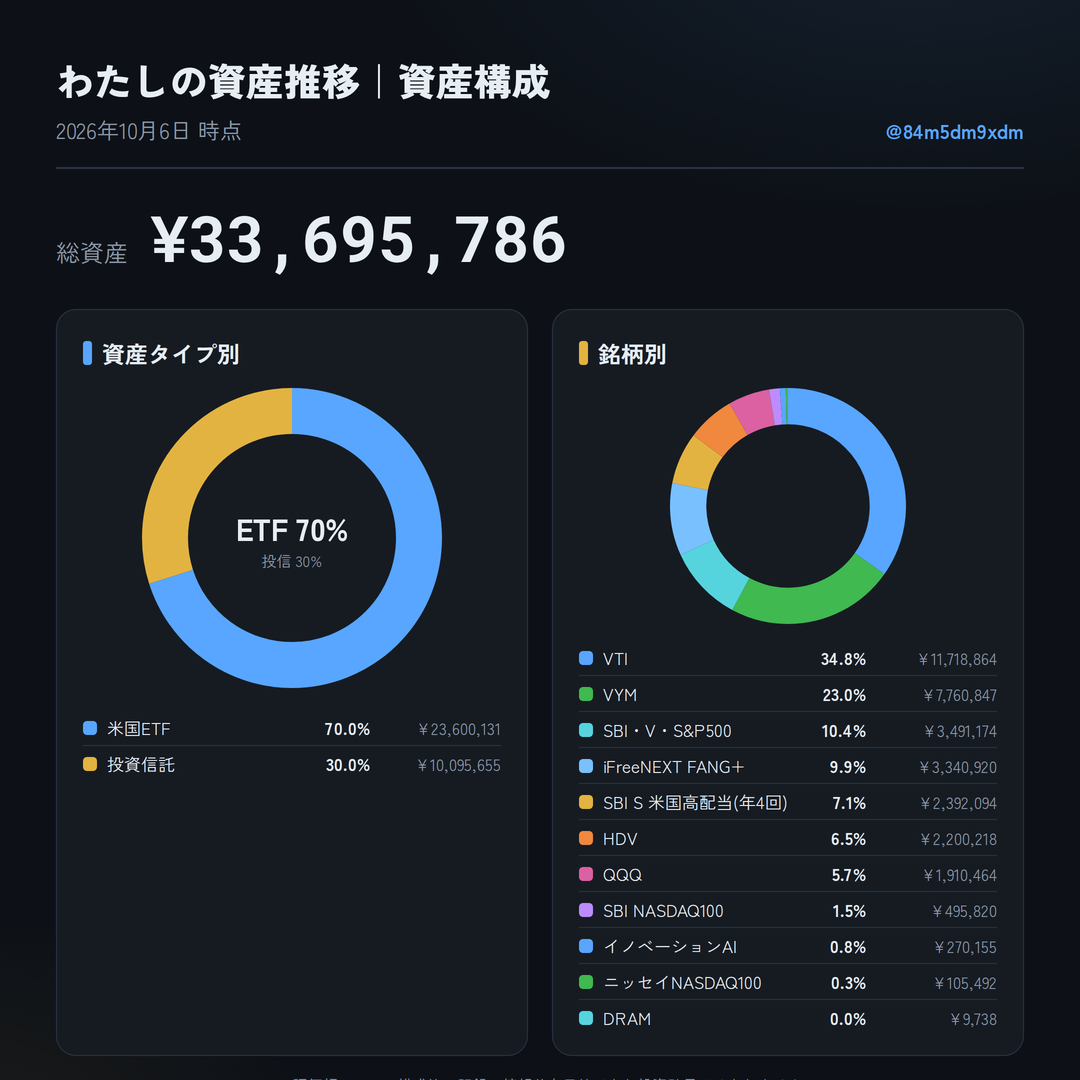
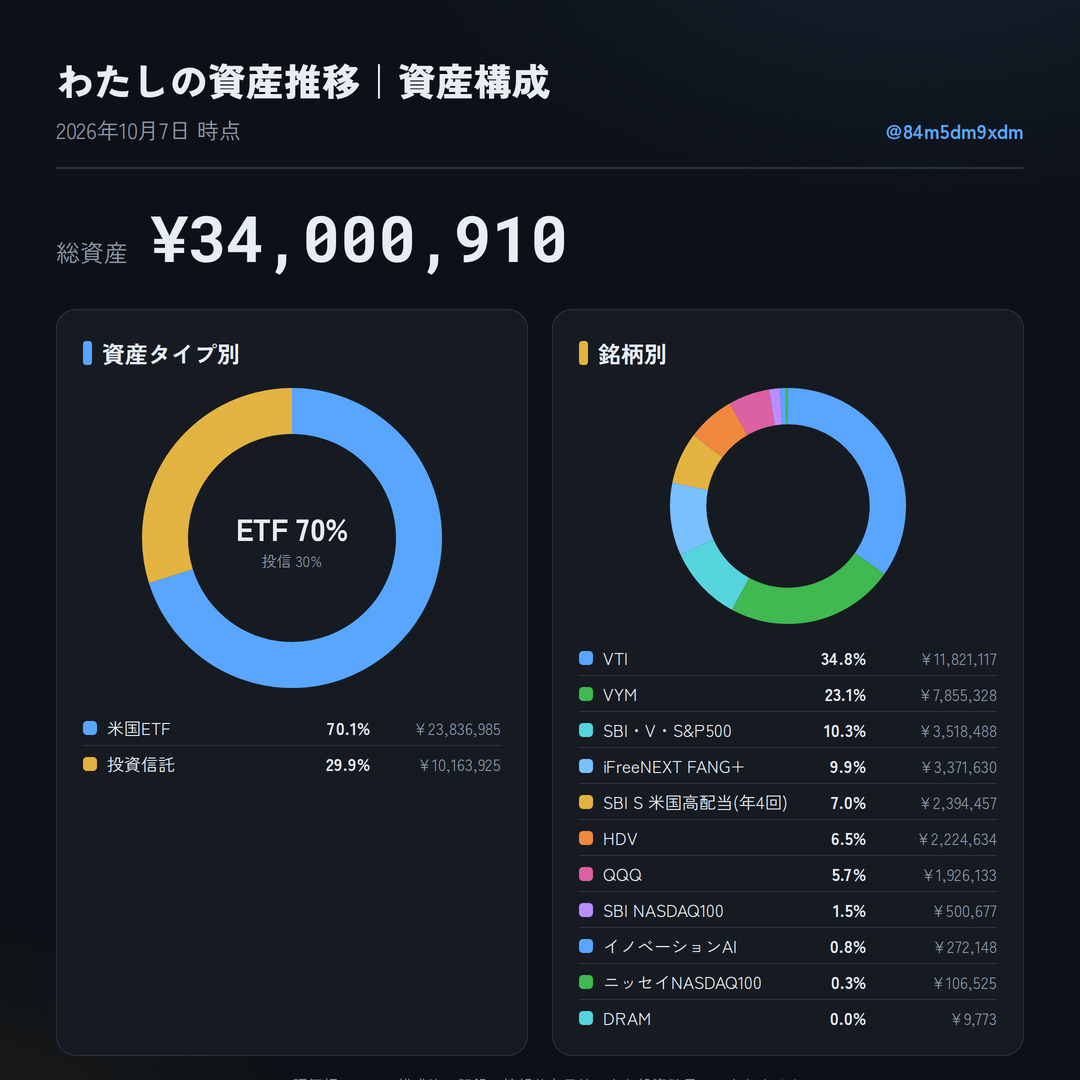
update: 2026-10-07

diff --git a/slide/allocation.html b/slide/allocation.html
@@ -54,21 +54,21 @@ footer { margin-top:18px; text-align:center; font-size:15px; color:var(--dim); }
   <header>
     <div>
       <div class="title">わたしの資産推移｜資産構成</div>
-      <div class="date">2026年10月6日 時点</div>
+      <div class="date">2026年10月7日 時点</div>
     </div>
     <div class="acct">@84m5dm9xdm</div>
   </header>
 
   <div class="total-wrap">
     <span class="total-label">総資産</span>
-    <span class="total mono">¥33,695,786</span>
+    <span class="total mono">¥34,000,910</span>
   </div>
 
   <div class="cols">
     <div class="panel cat">
       <div class="panel-h">資産タイプ別</div>
       <div class="donut-wrap">
-        <svg viewBox="0 0 300 300" xmlns="http://www.w3.org/2000/svg"><circle cx="150.0" cy="150.0" r="127.0" fill="none" stroke="#58a6ff" stroke-width="46" stroke-dasharray="558.885 239.080" stroke-dashoffset="-0.000" transform="rotate(-90 150.0 150.0)"/><circle cx="150.0" cy="150.0" r="127.0" fill="none" stroke="#e3b341" stroke-width="46" stroke-dasharray="239.080 558.885" stroke-dashoffset="-558.885" transform="rotate(-90 150.0 150.0)"/></svg>
+        <svg viewBox="0 0 300 300" xmlns="http://www.w3.org/2000/svg"><circle cx="150.0" cy="150.0" r="127.0" fill="none" stroke="#58a6ff" stroke-width="46" stroke-dasharray="559.428 238.536" stroke-dashoffset="-0.000" transform="rotate(-90 150.0 150.0)"/><circle cx="150.0" cy="150.0" r="127.0" fill="none" stroke="#e3b341" stroke-width="46" stroke-dasharray="238.536 559.428" stroke-dashoffset="-559.428" transform="rotate(-90 150.0 150.0)"/></svg>
         <div class="donut-center">
           <div class="dc-big">ETF 70%</div>
           <div class="dc-sub">投信 30%</div>
@@ -78,88 +78,88 @@ footer { margin-top:18px; text-align:center; font-size:15px; color:var(--dim); }
         <div class="lg">
           <span class="dot" style="background:#58a6ff"></span>
           <span class="lg-name">米国ETF</span>
-          <span class="lg-pct">70.0%</span>
-          <span class="lg-jpy">¥23,600,131</span>
+          <span class="lg-pct">70.1%</span>
+          <span class="lg-jpy">¥23,836,985</span>
         </div>
         <div class="lg">
           <span class="dot" style="background:#e3b341"></span>
           <span class="lg-name">投資信託</span>
-          <span class="lg-pct">30.0%</span>
-          <span class="lg-jpy">¥10,095,655</span>
+          <span class="lg-pct">29.9%</span>
+          <span class="lg-jpy">¥10,163,925</span>
         </div>
     </div>
 
     <div class="panel sym">
       <div class="panel-h">銘柄別</div>
       <div class="donut-wrap small">
-        <svg viewBox="0 0 260 260" xmlns="http://www.w3.org/2000/svg"><circle cx="130.0" cy="130.0" r="110.0" fill="none" stroke="#58a6ff" stroke-width="40" stroke-dasharray="240.371 450.779" stroke-dashoffset="-0.000" transform="rotate(-90 130.0 130.0)"/><circle cx="130.0" cy="130.0" r="110.0" fill="none" stroke="#3fb950" stroke-width="40" stroke-dasharray="159.186 531.964" stroke-dashoffset="-240.371" transform="rotate(-90 130.0 130.0)"/><circle cx="130.0" cy="130.0" r="110.0" fill="none" stroke="#56d4dd" stroke-width="40" stroke-dasharray="71.609 619.541" stroke-dashoffset="-399.558" transform="rotate(-90 130.0 130.0)"/><circle cx="130.0" cy="130.0" r="110.0" fill="none" stroke="#79c0ff" stroke-width="40" stroke-dasharray="68.527 622.623" stroke-dashoffset="-471.167" transform="rotate(-90 130.0 130.0)"/><circle cx="130.0" cy="130.0" r="110.0" fill="none" stroke="#e3b341" stroke-width="40" stroke-dasharray="49.065 642.085" stroke-dashoffset="-539.694" transform="rotate(-90 130.0 130.0)"/><circle cx="130.0" cy="130.0" r="110.0" fill="none" stroke="#f0883e" stroke-width="40" stroke-dasharray="45.130 646.021" stroke-dashoffset="-588.759" transform="rotate(-90 130.0 130.0)"/><circle cx="130.0" cy="130.0" r="110.0" fill="none" stroke="#db61a2" stroke-width="40" stroke-dasharray="39.186 651.964" stroke-dashoffset="-633.889" transform="rotate(-90 130.0 130.0)"/><circle cx="130.0" cy="130.0" r="110.0" fill="none" stroke="#bc8cff" stroke-width="40" stroke-dasharray="10.170 680.980" stroke-dashoffset="-673.076" transform="rotate(-90 130.0 130.0)"/><circle cx="130.0" cy="130.0" r="110.0" fill="none" stroke="#58a6ff" stroke-width="40" stroke-dasharray="5.541 685.609" stroke-dashoffset="-683.246" transform="rotate(-90 130.0 130.0)"/><circle cx="130.0" cy="130.0" r="110.0" fill="none" stroke="#3fb950" stroke-width="40" stroke-dasharray="2.164 688.987" stroke-dashoffset="-688.787" transform="rotate(-90 130.0 130.0)"/><circle cx="130.0" cy="130.0" r="110.0" fill="none" stroke="#56d4dd" stroke-width="40" stroke-dasharray="0.200 690.951" stroke-dashoffset="-690.951" transform="rotate(-90 130.0 130.0)"/></svg>
+        <svg viewBox="0 0 260 260" xmlns="http://www.w3.org/2000/svg"><circle cx="130.0" cy="130.0" r="110.0" fill="none" stroke="#58a6ff" stroke-width="40" stroke-dasharray="240.293 450.858" stroke-dashoffset="-0.000" transform="rotate(-90 130.0 130.0)"/><circle cx="130.0" cy="130.0" r="110.0" fill="none" stroke="#3fb950" stroke-width="40" stroke-dasharray="159.678 531.472" stroke-dashoffset="-240.293" transform="rotate(-90 130.0 130.0)"/><circle cx="130.0" cy="130.0" r="110.0" fill="none" stroke="#56d4dd" stroke-width="40" stroke-dasharray="71.522 619.629" stroke-dashoffset="-399.971" transform="rotate(-90 130.0 130.0)"/><circle cx="130.0" cy="130.0" r="110.0" fill="none" stroke="#79c0ff" stroke-width="40" stroke-dasharray="68.537 622.614" stroke-dashoffset="-471.493" transform="rotate(-90 130.0 130.0)"/><circle cx="130.0" cy="130.0" r="110.0" fill="none" stroke="#e3b341" stroke-width="40" stroke-dasharray="48.673 642.477" stroke-dashoffset="-540.029" transform="rotate(-90 130.0 130.0)"/><circle cx="130.0" cy="130.0" r="110.0" fill="none" stroke="#f0883e" stroke-width="40" stroke-dasharray="45.221 645.929" stroke-dashoffset="-588.702" transform="rotate(-90 130.0 130.0)"/><circle cx="130.0" cy="130.0" r="110.0" fill="none" stroke="#db61a2" stroke-width="40" stroke-dasharray="39.153 651.997" stroke-dashoffset="-633.924" transform="rotate(-90 130.0 130.0)"/><circle cx="130.0" cy="130.0" r="110.0" fill="none" stroke="#bc8cff" stroke-width="40" stroke-dasharray="10.177 680.973" stroke-dashoffset="-673.077" transform="rotate(-90 130.0 130.0)"/><circle cx="130.0" cy="130.0" r="110.0" fill="none" stroke="#58a6ff" stroke-width="40" stroke-dasharray="5.532 685.618" stroke-dashoffset="-683.254" transform="rotate(-90 130.0 130.0)"/><circle cx="130.0" cy="130.0" r="110.0" fill="none" stroke="#3fb950" stroke-width="40" stroke-dasharray="2.165 688.985" stroke-dashoffset="-688.786" transform="rotate(-90 130.0 130.0)"/><circle cx="130.0" cy="130.0" r="110.0" fill="none" stroke="#56d4dd" stroke-width="40" stroke-dasharray="0.199 690.952" stroke-dashoffset="-690.952" transform="rotate(-90 130.0 130.0)"/></svg>
       </div>
       
         <div class="lg">
           <span class="dot" style="background:#58a6ff"></span>
           <span class="lg-name">VTI</span>
           <span class="lg-pct">34.8%</span>
-          <span class="lg-jpy">¥11,718,864</span>
+          <span class="lg-jpy">¥11,821,117</span>
         </div>
         <div class="lg">
           <span class="dot" style="background:#3fb950"></span>
           <span class="lg-name">VYM</span>
-          <span class="lg-pct">23.0%</span>
-          <span class="lg-jpy">¥7,760,847</span>
+          <span class="lg-pct">23.1%</span>
+          <span class="lg-jpy">¥7,855,328</span>
         </div>
         <div class="lg">
           <span class="dot" style="background:#56d4dd"></span>
           <span class="lg-name">SBI・V・S&P500</span>
-          <span class="lg-pct">10.4%</span>
-          <span class="lg-jpy">¥3,491,174</span>
+          <span class="lg-pct">10.3%</span>
+          <span class="lg-jpy">¥3,518,488</span>
         </div>
         <div class="lg">
           <span class="dot" style="background:#79c0ff"></span>
           <span class="lg-name">iFreeNEXT FANG+</span>
           <span class="lg-pct">9.9%</span>
-          <span class="lg-jpy">¥3,340,920</span>
+          <span class="lg-jpy">¥3,371,630</span>
         </div>
         <div class="lg">
           <span class="dot" style="background:#e3b341"></span>
           <span class="lg-name">SBI S 米国高配当(年4回)</span>
-          <span class="lg-pct">7.1%</span>
-          <span class="lg-jpy">¥2,392,094</span>
+          <span class="lg-pct">7.0%</span>
+          <span class="lg-jpy">¥2,394,457</span>
         </div>
         <div class="lg">
           <span class="dot" style="background:#f0883e"></span>
           <span class="lg-name">HDV</span>
           <span class="lg-pct">6.5%</span>
-          <span class="lg-jpy">¥2,200,218</span>
+          <span class="lg-jpy">¥2,224,634</span>
         </div>
         <div class="lg">
           <span class="dot" style="background:#db61a2"></span>
           <span class="lg-name">QQQ</span>
           <span class="lg-pct">5.7%</span>
-          <span class="lg-jpy">¥1,910,464</span>
+          <span class="lg-jpy">¥1,926,133</span>
         </div>
         <div class="lg">
           <span class="dot" style="background:#bc8cff"></span>
           <span class="lg-name">SBI NASDAQ100</span>
           <span class="lg-pct">1.5%</span>
-          <span class="lg-jpy">¥495,820</span>
+          <span class="lg-jpy">¥500,677</span>
         </div>
         <div class="lg">
           <span class="dot" style="background:#58a6ff"></span>
           <span class="lg-name">イノベーションAI</span>
           <span class="lg-pct">0.8%</span>
-          <span class="lg-jpy">¥270,155</span>
+          <span class="lg-jpy">¥272,148</span>
         </div>
         <div class="lg">
           <span class="dot" style="background:#3fb950"></span>
           <span class="lg-name">ニッセイNASDAQ100</span>
           <span class="lg-pct">0.3%</span>
-          <span class="lg-jpy">¥105,492</span>
+          <span class="lg-jpy">¥106,525</span>
         </div>
         <div class="lg">
           <span class="dot" style="background:#56d4dd"></span>
           <span class="lg-name">DRAM</span>
           <span class="lg-pct">0.0%</span>
-          <span class="lg-jpy">¥9,738</span>
+          <span class="lg-jpy">¥9,773</span>
         </div>
     </div>
   </div>

diff --git a/slide/slide.html b/slide/slide.html
@@ -62,37 +62,37 @@ footer { margin-top:18px; text-align:center; font-size:15px; color:var(--dim); }
   <header>
     <div>
       <div class="title">わたしの資産推移</div>
-      <div class="date">2026年10月6日 終値ベース ・ USD/JPY 157.9</div>
+      <div class="date">2026年10月7日 終値ベース ・ USD/JPY 158.47</div>
     </div>
     <div class="acct">@84m5dm9xdm</div>
   </header>
 
   <div class="total-wrap">
     <span class="total-label">総資産</span>
-    <span class="total mono">¥33,695,786</span>
-    <span class="total-day mono up">+0.57%</span>
+    <span class="total mono">¥34,000,910</span>
+    <span class="total-day mono up">+0.91%</span>
   </div>
 
   <div class="cmps">
         <div class="cmp up">
           <div class="cmp-label">前日比</div>
-          <div class="cmp-pct">+0.57%</div>
-          <div class="cmp-jpy">+¥192,389</div>
+          <div class="cmp-pct">+0.91%</div>
+          <div class="cmp-jpy">+¥305,124</div>
         </div>
         <div class="cmp up">
           <div class="cmp-label">先週比</div>
-          <div class="cmp-pct">+0.22%</div>
-          <div class="cmp-jpy">+¥74,496</div>
+          <div class="cmp-pct">+1.94%</div>
+          <div class="cmp-jpy">+¥648,534</div>
         </div>
-        <div class="cmp down">
+        <div class="cmp up">
           <div class="cmp-label">先月比</div>
-          <div class="cmp-pct">−0.08%</div>
-          <div class="cmp-jpy">−¥27,871</div>
+          <div class="cmp-pct">+0.88%</div>
+          <div class="cmp-jpy">+¥295,442</div>
         </div>
         <div class="cmp up">
           <div class="cmp-label">年初来</div>
-          <div class="cmp-pct">+1.52%</div>
-          <div class="cmp-jpy">+¥484,709</div>
+          <div class="cmp-pct">+2.48%</div>
+          <div class="cmp-jpy">+¥789,833</div>
         </div></div>
 
   <div class="cols">
@@ -102,41 +102,41 @@ footer { margin-top:18px; text-align:center; font-size:15px; color:var(--dim); }
             <div class="hold">
               <div class="hold-main">
                 <span class="hold-name">VYM 米国高配当ETF</span>
-                <span class="hold-chg up">+0.36%</span>
+                <span class="hold-chg up">+0.85%</span>
               </div>
               <div class="hold-sub">
-                <span>$157.03 ・ 313株 / 前日 $156.46</span>
-                <span class="hold-jpy">¥7,760,847</span>
+                <span>$158.37 ・ 313株 / 前日 $157.03</span>
+                <span class="hold-jpy">¥7,855,328</span>
               </div>
             </div>
             <div class="hold">
               <div class="hold-main">
                 <span class="hold-name">VTI 全米株式ETF</span>
-                <span class="hold-chg up">+0.69%</span>
+                <span class="hold-chg up">+0.51%</span>
               </div>
               <div class="hold-sub">
-                <span>$380.60 ・ 195株 / 前日 $377.99</span>
-                <span class="hold-jpy">¥11,718,864</span>
+                <span>$382.54 ・ 195株 / 前日 $380.60</span>
+                <span class="hold-jpy">¥11,821,117</span>
               </div>
             </div>
             <div class="hold">
               <div class="hold-main">
                 <span class="hold-name">HDV 米国高配当ETF</span>
-                <span class="hold-chg up">+0.39%</span>
+                <span class="hold-chg up">+0.75%</span>
               </div>
               <div class="hold-sub">
-                <span>$28.15 ・ 495株 / 前日 $28.04</span>
-                <span class="hold-jpy">¥2,200,218</span>
+                <span>$28.36 ・ 495株 / 前日 $28.15</span>
+                <span class="hold-jpy">¥2,224,634</span>
               </div>
             </div>
             <div class="hold">
               <div class="hold-main">
                 <span class="hold-name">QQQ ナスダック100ETF</span>
-                <span class="hold-chg up">+0.88%</span>
+                <span class="hold-chg up">+0.46%</span>
               </div>
               <div class="hold-sub">
-                <span>$756.20 ・ 16株 / 前日 $749.58</span>
-                <span class="hold-jpy">¥1,910,464</span>
+                <span>$759.66 ・ 16株 / 前日 $756.20</span>
+                <span class="hold-jpy">¥1,926,133</span>
               </div>
             </div>
             <div class="hold">
@@ -146,7 +146,7 @@ footer { margin-top:18px; text-align:center; font-size:15px; color:var(--dim); }
               </div>
               <div class="hold-sub">
                 <span>$61.67 ・ 1株 / 前日 $61.78</span>
-                <span class="hold-jpy">¥9,738</span>
+                <span class="hold-jpy">¥9,773</span>
               </div>
             </div>
     </div>
@@ -156,61 +156,61 @@ footer { margin-top:18px; text-align:center; font-size:15px; color:var(--dim); }
             <div class="hold">
               <div class="hold-main">
                 <span class="hold-name">ニッセイNASDAQ100</span>
-                <span class="hold-chg up">+0.77%</span>
+                <span class="hold-chg up">+0.98%</span>
               </div>
               <div class="hold-sub">
-                <span>29,002円 ・ 36,374口</span>
-                <span class="hold-jpy">¥105,492</span>
+                <span>29,286円 ・ 36,374口</span>
+                <span class="hold-jpy">¥106,525</span>
               </div>
             </div>
             <div class="hold">
               <div class="hold-main">
                 <span class="hold-name">SBI・V・S&P500</span>
-                <span class="hold-chg up">+0.50%</span>
+                <span class="hold-chg up">+0.78%</span>
               </div>
               <div class="hold-sub">
-                <span>41,029円 ・ 850,904口</span>
-                <span class="hold-jpy">¥3,491,174</span>
+                <span>41,350円 ・ 850,904口</span>
+                <span class="hold-jpy">¥3,518,488</span>
               </div>
             </div>
             <div class="hold">
               <div class="hold-main">
                 <span class="hold-name">iFreeNEXT FANG+</span>
-                <span class="hold-chg up">+0.32%</span>
+                <span class="hold-chg up">+0.92%</span>
               </div>
               <div class="hold-sub">
-                <span>101,935円 ・ 327,750口</span>
-                <span class="hold-jpy">¥3,340,920</span>
+                <span>102,872円 ・ 327,750口</span>
+                <span class="hold-jpy">¥3,371,630</span>
               </div>
             </div>
             <div class="hold">
               <div class="hold-main">
                 <span class="hold-name">SBI S 米国高配当(年4回)</span>
-                <span class="hold-chg down">−0.05%</span>
+                <span class="hold-chg up">+0.10%</span>
               </div>
               <div class="hold-sub">
-                <span>12,144円 ・ 1,969,774口</span>
-                <span class="hold-jpy">¥2,392,094</span>
+                <span>12,156円 ・ 1,969,774口</span>
+                <span class="hold-jpy">¥2,394,457</span>
               </div>
             </div>
             <div class="hold">
               <div class="hold-main">
                 <span class="hold-name">イノベーションAI</span>
-                <span class="hold-chg down">−0.38%</span>
+                <span class="hold-chg up">+0.74%</span>
               </div>
               <div class="hold-sub">
-                <span>74,546円 ・ 36,240口</span>
-                <span class="hold-jpy">¥270,155</span>
+                <span>75,096円 ・ 36,240口</span>
+                <span class="hold-jpy">¥272,148</span>
               </div>
             </div>
             <div class="hold">
               <div class="hold-main">
                 <span class="hold-name">SBI NASDAQ100</span>
-                <span class="hold-chg up">+0.77%</span>
+                <span class="hold-chg up">+0.98%</span>
               </div>
               <div class="hold-sub">
-                <span>10,413円 ・ 476,155口</span>
-                <span class="hold-jpy">¥495,820</span>
+                <span>10,515円 ・ 476,155口</span>
+                <span class="hold-jpy">¥500,677</span>
               </div>
             </div>
     </div>
